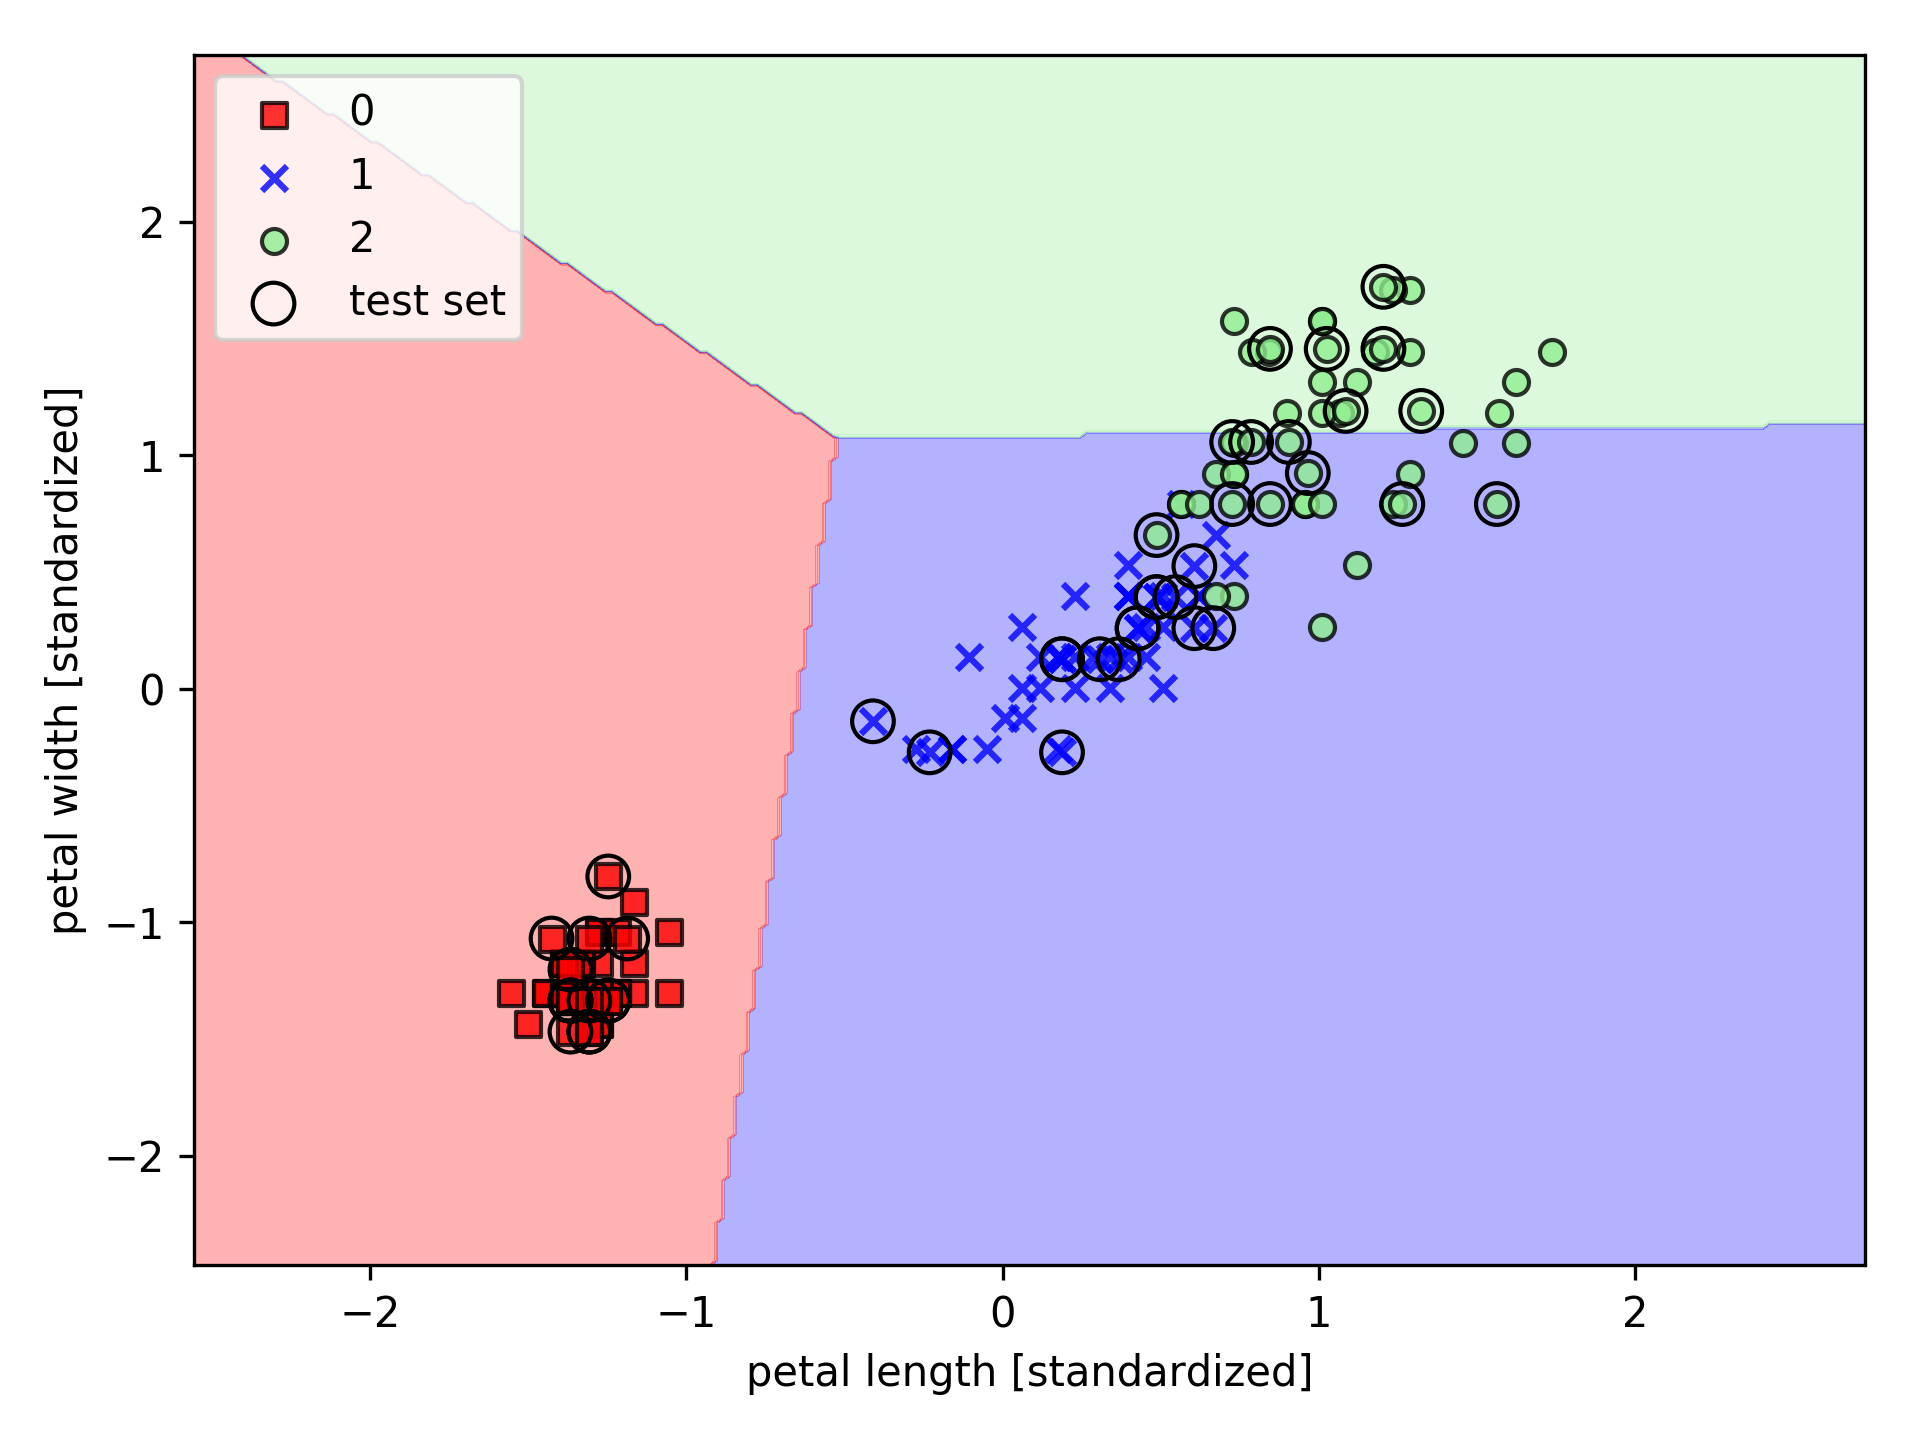
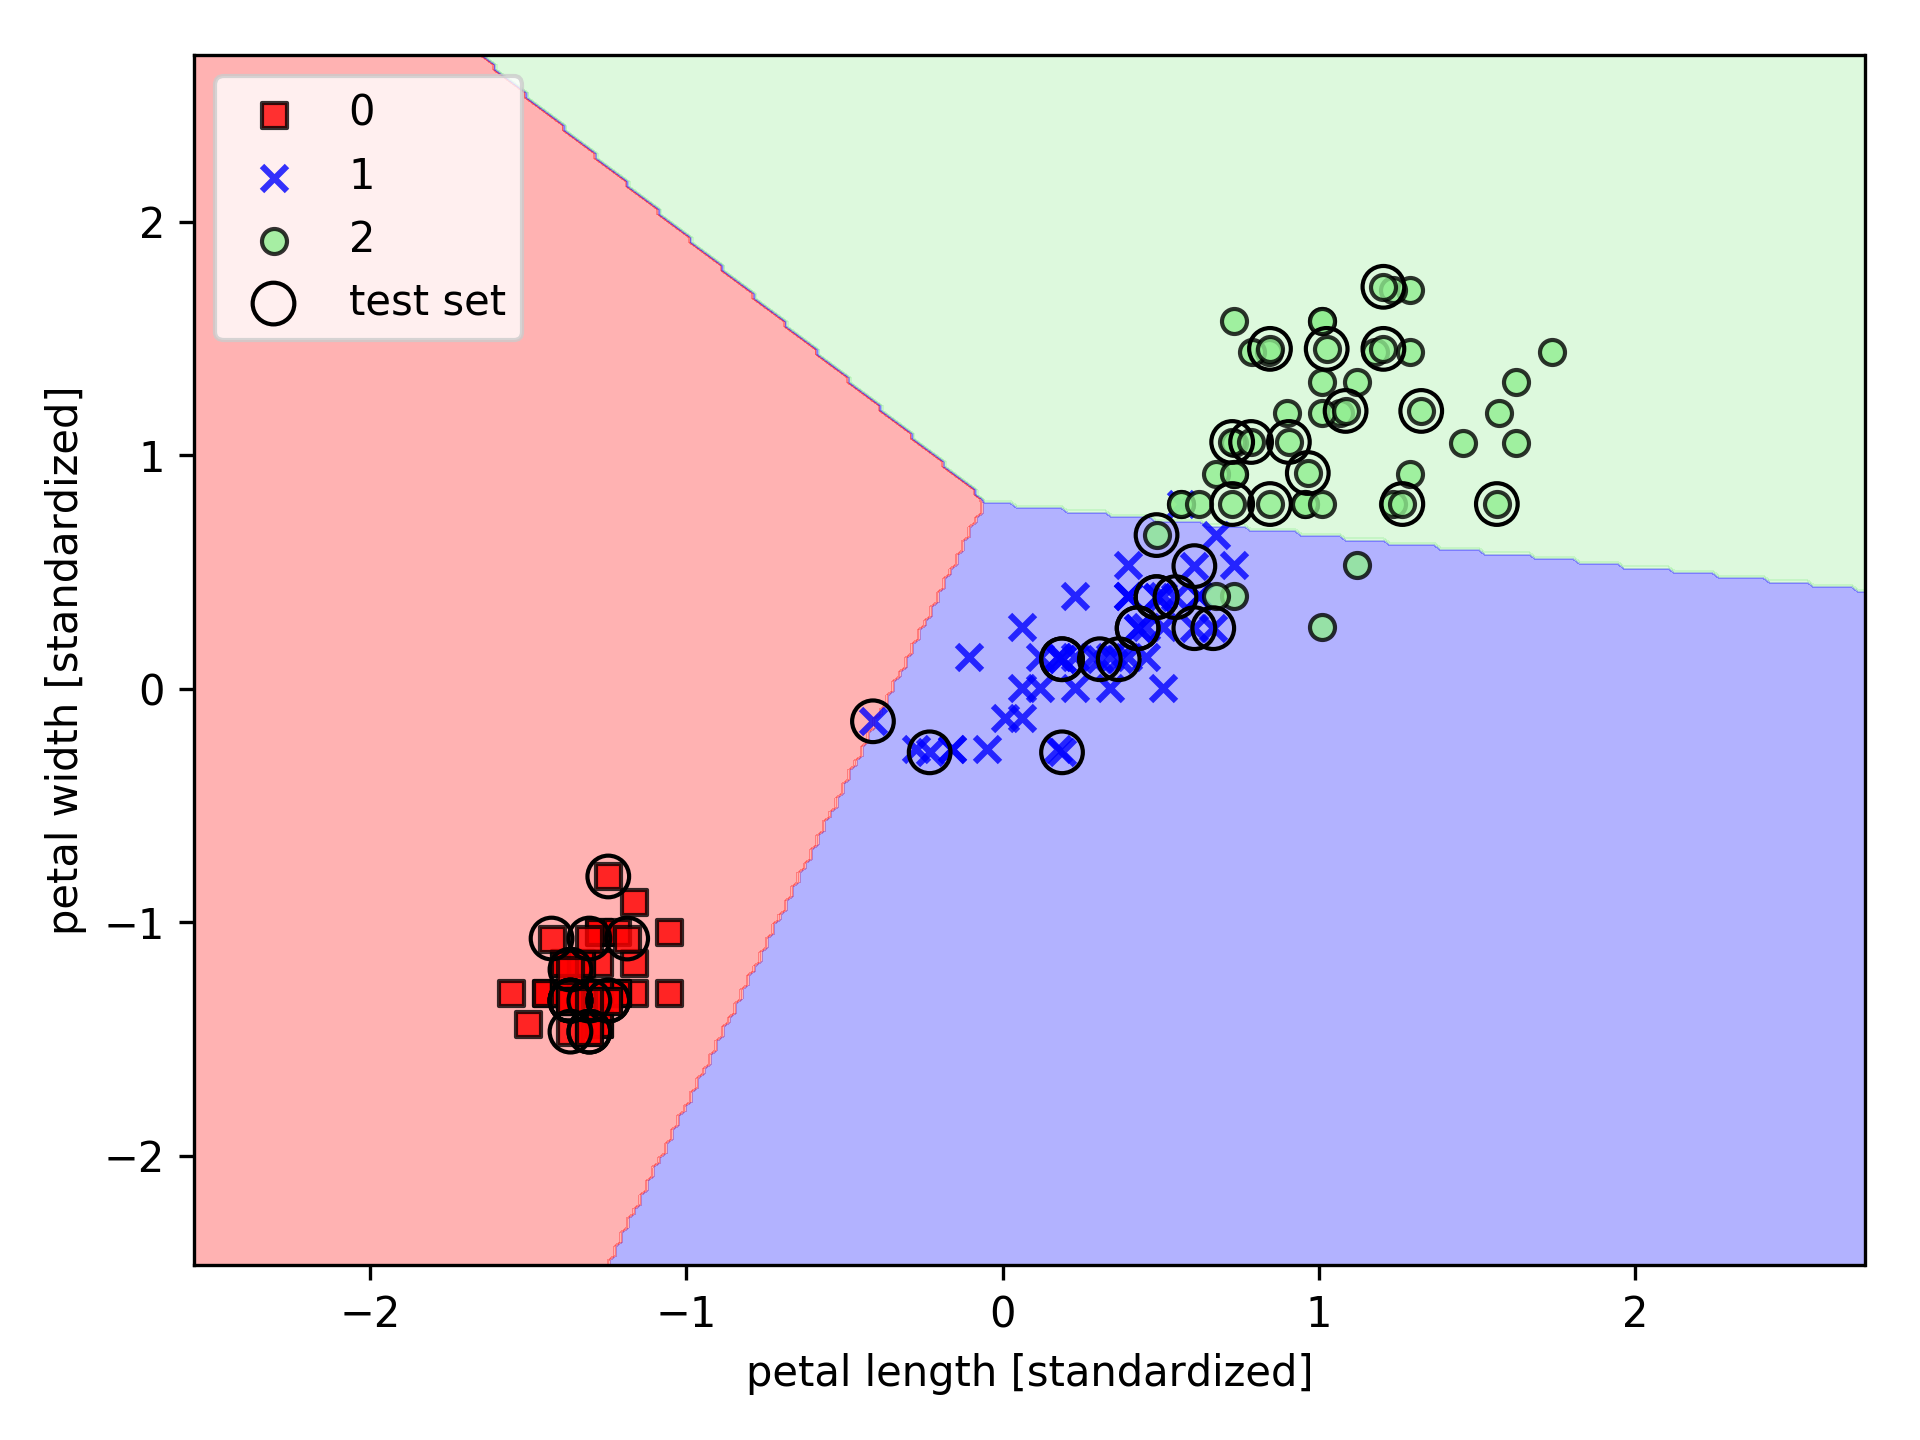
Add Decision tree and random forest

Changed region(s): [[0.125, 0.0312, 0.9688, 0.875]]

diff --git a/tests/decision_tree/scikit_learn_decision_tree_test.py b/tests/decision_tree/scikit_learn_decision_tree_test.py
@@ -1,0 +1,103 @@
+import unittest
+
+import numpy as np
+from pydotplus import graph_from_dot_data
+from sklearn.ensemble import RandomForestClassifier
+from sklearn.tree import DecisionTreeClassifier, export_graphviz
+
+from ml.common.plot import Plotter
+from tests.common.scikit_learn_test import ScikitLearnTest
+
+
+class ScikitLearnDecisionTreeTest(ScikitLearnTest):
+
+    @classmethod
+    def setUpClass(cls):
+        cls.switcher = {
+            'test_draw_impurity_criteria_types': cls.dummy_load_data_set
+        }
+
+    def test_draw_impurity_criteria_types(self):
+        # For a visual comparison of the three different impurity criteria (Entropy, Gini, Misclassification Error),
+        # let us plot the impurity indices for the probability range [0, 1] for class 1.
+        # Note that we will also add a scaled version of the entropy (entropy / 2) to observe that the Gini impurity is an
+        # intermediate measure between entropy and the classification error.
+
+        x_range = np.arange(start=0.0, stop=1.0, step=0.01, dtype=float)
+
+        # compute entropy and scaled antropy
+        ent = [self.entropy(p) if p != 0 else None for p in x_range]
+        sc_ent = [e * 0.5 if e else None for e in ent]
+
+        # compute gini
+        gn = [self.gini(p) for p in x_range]
+
+        # computer misclassification error
+        err = [self.misclassification_error(p) for p in x_range]
+
+        Plotter.plot_impurity_criteria(x_range, entropy=ent, scaled_entropy=sc_ent, gini=gn,
+                                       misclassification_error=err,
+                                       image_file_path='../../resources/images/DecisionTree-ScikitLearn-Impurity-Criteria.png')
+
+    def test_scikit_learn_decision_tree(self):
+        # Train the decision tree.
+        # Most algorithms in scikit-learn already support multiclass classification via the One-versus-Rest (OvR) method
+        tree = DecisionTreeClassifier(criterion='gini', max_depth=4, random_state=1)
+        tree.fit(self.x_train, self.y_train)
+
+        self.predict_and_evaluate(tree,
+                                  image_file_path='../../resources/images/DecisionTree-ScikitLearn-Decision-Boundary.png')
+
+        # save the tree as a digram
+        dot_data = export_graphviz(tree, filled=True, rounded=True, class_names=['Setosa', 'Versicolor', 'Virginica'],
+                                   feature_names=['petal length', 'petal width'], out_file=None)
+        graph = graph_from_dot_data(dot_data)
+        graph.write_png('../../resources/images/DecisionTree-ScikitLearn-Tree-Diagram.png')
+
+    def test_scikit_learn_random_forest(self):
+        forest = RandomForestClassifier(criterion='gini', n_estimators=25, random_state=1, n_jobs=2)
+        forest.fit(self.x_train, self.y_train)
+
+        self.predict_and_evaluate(forest,
+                                  image_file_path='../../resources/images/RandomForest-ScikitLearn-Decision-Boundary.png')
+
+    def predict_and_evaluate(self, decision_tree: DecisionTreeClassifier, image_file_path: str = None):
+        # Run predictions and count the number of misclassified examples
+        y_pred = decision_tree.predict(self.x_test)
+        print('Misclassified samples: %d' % (self.y_test != y_pred).sum())
+        # Evaluate model accuracy
+        # Each classifier in scikit-learn has a score method, which computes a classifier's prediction accuracy by
+        # combining the predict call with the accuracy_score call
+        print('Accuracy: %.2f' % decision_tree.score(self.x_test, self.y_test))
+
+        # Show decision boundary
+        diagram_options = {
+            'x_label': 'petal length [standardized]',
+            'y_label': 'petal width [standardized]',
+            'legend': 'upper left',
+            'draw_test_samples': range(105, 150)
+        }
+        x_combined_std = np.vstack((self.x_train, self.x_test))
+        y_combined = np.hstack((self.y_train, self.y_test))
+
+        Plotter.plot_decision_boundary(x_combined_std, y_combined, decision_tree, diagram_options,
+                                       image_file_path=image_file_path)
+
+    @staticmethod
+    def entropy(p: float):
+        return - p * np.log2(p) - (1 - p) * np.log2((1 - p))
+
+    @staticmethod
+    def gini(p: float):
+        return p * (1 - p) + (1 - p) * (1 - (1 - p))
+
+    @staticmethod
+    def misclassification_error(p: float):
+        return 1 - np.max([p, 1 - p])
+
+    def dummy_load_data_set(self):
+        pass
+
+
+if __name__ == '__main__':
+    unittest.main()

diff --git a/ml/common/plot/plotter.py b/ml/common/plot/plotter.py
@@ -30,7 +30,8 @@ class Plotter(object):
         plt.show()
 
     @staticmethod
-    def plot_svm_nonlinear_data_set(x: np.matrix, y: np.matrix, image_file_path: str = None, resolution: int = 300) -> None:
+    def plot_svm_nonlinear_data_set(x: np.matrix, y: np.matrix, image_file_path: str = None,
+                                    resolution: int = 300) -> None:
         plt.scatter(x[y == 1, 0], x[y == 1, 1], c='b', marker='x', label='1')
         plt.scatter(x[y == -1, 0], x[y == -1, 1], c='r', marker='s', label='-1')
 
@@ -148,6 +149,36 @@ class Plotter(object):
         plt.legend(loc=curve['legend'])
 
         plt.xscale('log')
+
+        plt.tight_layout()
+
+        plt.savefig(image_file_path, dpi=resolution)
+
+        plt.show()
+
+    @staticmethod
+    def plot_impurity_criteria(x_range: [], entropy: [], scaled_entropy: [], gini: [], misclassification_error: [],
+                               image_file_path: str = None, resolution: int = 300):
+        iterator = zip(
+            [entropy, scaled_entropy, gini, misclassification_error],
+            ['I(H)', '1/2 * I(H)', 'I(G)', 'I(E)'],
+            ['-', '-', '--', '-.'],
+            ['black', 'lightgray', 'red', 'green', 'cyan']
+        )
+
+        fig = plt.figure()
+        ax = plt.subplot(1, 1, 1)
+
+        for i, lab, ls, c, in iterator:
+            ax.plot(x_range, i, label=lab, linestyle=ls, lw=2, color=c)
+
+        ax.legend(loc='upper center', bbox_to_anchor=(0.5, 1.15), ncol=5, fancybox=True, shadow=False)
+
+        ax.axhline(y=0.5, linewidth=1, color='k', linestyle='--')
+        ax.axhline(y=1.0, linewidth=1, color='k', linestyle='--')
+        plt.ylim([0, 1.1])
+        plt.xlabel('p(i=1)')
+        plt.ylabel('Impurity Index')
 
         plt.tight_layout()
 

diff --git a/tests/all_tests_suite.py b/tests/all_tests_suite.py
@@ -1,0 +1,16 @@
+import unittest
+
+from tests.adaline.adaline_test import AdalineTest
+
+
+def suite():
+    test_suite = unittest.TestSuite()
+    test_suite.addTest(unittest.makeSuite(AdalineTest))
+
+    return test_suite
+
+
+mySuit = suite()
+
+runner = unittest.TextTestRunner()
+runner.run(mySuit)
